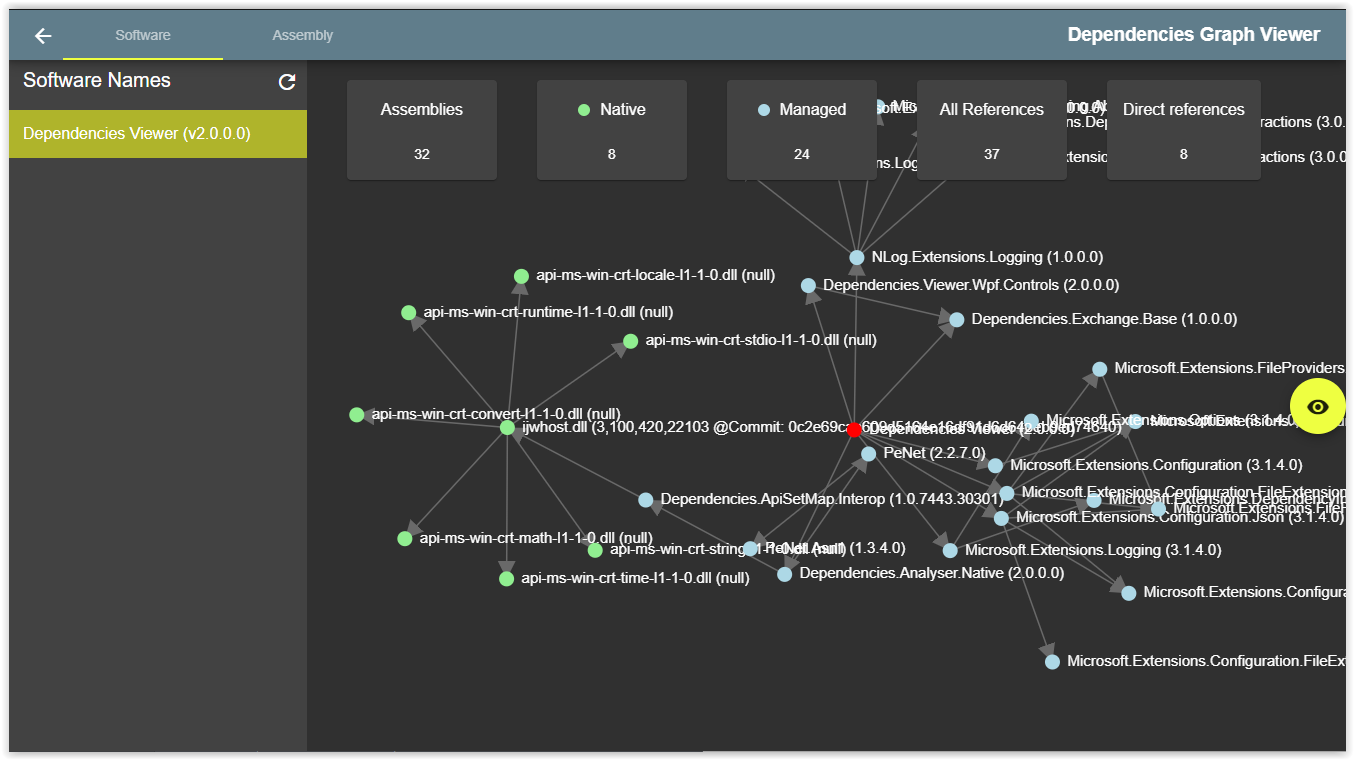
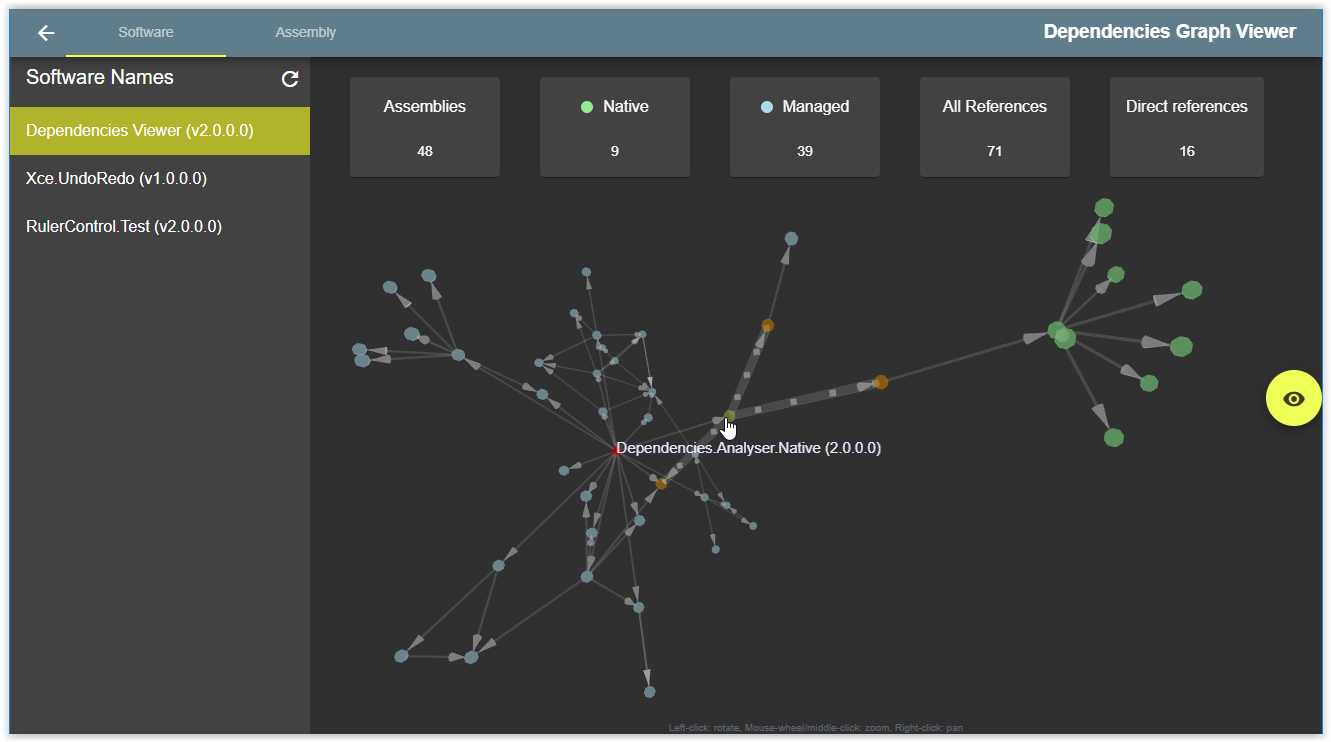
Prepare release 1.1

diff --git a/src/app/shared/components/three-force-graph/three-force-graph.component.ts b/src/app/shared/components/three-force-graph/three-force-graph.component.ts
@@ -14,6 +14,9 @@ export class ThreeForceGraphComponent implements AfterViewInit {
 
   @ViewChild('container') container!: ElementRef;
 
+  #selectionColor = 'rgba(175, 180, 43, 1)';
+  #linkSelectionColor = 'rgba(255, 160, 0, 0.6)';
+
   #graphInstance: ForceGraph3DInstance;
   #isInitialized = false;
   #graphData: Graph;
@@ -35,7 +38,7 @@ export class ThreeForceGraphComponent implements AfterViewInit {
 
     this.zone.runOutsideAngular(() => {
       this.#graphInstance?.nodeLabel((node: any) => this.getNodeLabel(node))
-                         .nodeThreeObject((node: any) => this.getNodeExtendObject(node));
+        .nodeThreeObject((node: any) => this.getNodeExtendObject(node));
     });
   }
 
@@ -78,7 +81,7 @@ export class ThreeForceGraphComponent implements AfterViewInit {
     if (!this.isHighlightNodes(this.#hoverNode?.id, node.id)) {
       return node.color;
     }
-    return node === this.#hoverNode ? '#afb42b' : 'rgba(255,160,0,0.8)';
+    return node === this.#hoverNode ? this.#selectionColor : this.#linkSelectionColor;
   }
 
   private getNodeLabel(node: any): any {
@@ -126,8 +129,8 @@ export class ThreeForceGraphComponent implements AfterViewInit {
       .nodeColor((node: any) => this.getNodeColor(node))
       .nodeThreeObjectExtend(true)
       .nodeThreeObject((node: any) => this.getNodeExtendObject(node))
-      .linkWidth((link: any) => this.isHighlightLink(this.#hoverNode?.id, link.source.id, link.target.id) ? 4 : 1)
-      .linkDirectionalParticles((link: any) => this.isHighlightLink(this.#hoverNode?.id, link.source.id, link.target.id) ? 4 : 0)
+      .linkWidth((link: any) => this.isHighlightLink(link) ? 4 : 1)
+      .linkDirectionalParticles((link: any) => this.isHighlightLink(link) ? 4 : 0)
       .linkDirectionalArrowLength(8)
       .linkDirectionalArrowRelPos(1)
       .linkDirectionalParticleWidth(4)
@@ -139,20 +142,21 @@ export class ThreeForceGraphComponent implements AfterViewInit {
     this.resizeGraph();
   }
 
+  private isHighlightLink(link: any): boolean {
+
+    if (this.#hoverNode?.id !== link.source.id) {
+      return false;
+    }
+
+    return this.#nodeLink[link.source.id]?.includes(link.target.id) ?? false;
+  }
+
   private isHighlightNodes(selectedNodeId: string, testNodeid: string): boolean {
     if (selectedNodeId === testNodeid) {
       return true;
     }
 
     return this.#nodeLink[selectedNodeId]?.includes(testNodeid) ?? false;
-  }
-
-  private isHighlightLink(selectedNodeId: string, sourceId: string, targetId: string): boolean {
-    if (selectedNodeId !== sourceId) {
-      return false;
-    }
-
-    return this.#nodeLink[sourceId]?.includes(targetId) ?? false;
   }
 
   private updateGraphData() {

diff --git a/doc/releases/v1.1.0.md b/doc/releases/v1.1.0.md
@@ -1,4 +1,6 @@
 ### Update
 - Angular Migration
+- Add 3d view to display softwares assemblies
+- Improving graph performance
 
 Docker image available [here](https://github.com/xclemence/dependencies-graph-viewer/packages)
